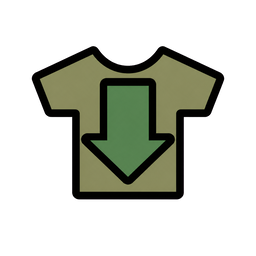
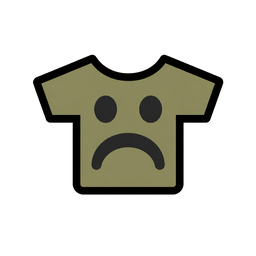
Revised placeholder art by codex

Changed region(s): [[0.125, 0.1562, 0.875, 0.7812]]

diff --git a/Art/Codex/Gene icon concepts.md b/Art/Codex/Gene icon concepts.md
@@ -30,7 +30,7 @@ Match the composition of `Gene_StrongArtistic`, replacing the paintbrush with a 
 
 ### Super-specialist (`XylSuperSpecialist`)
 
-Reuse the specialist die, but place it over a larger double-stepped green up arrow. The stronger arrow distinguishes the higher aptitude tier without adding a separate passion symbol.
+Reuse the specialist die and standard green up-arrow shape, but make the arrow substantially taller. RimWorld uses increased arrow height, rather than extra steps, to distinguish a larger effect. Keep the die the same size and position so the two genes remain a clear family.
 
 ### Scaleborn lineage (`XylScalebornLineage`)
 
@@ -40,7 +40,7 @@ A single neutral olive dragon egg with a few broad scales and one prominent crac
 
 ### Lithoid (`XylLithoid`)
 
-A faceted slate-gray heart with a violet crystal at its center. It should look like a living organ made from stone, emphasizing mineral biochemistry without trying to summarize its mixed drug interactions.
+A simple drug flask in the established gene-icon vocabulary, containing one large gray-purple crystal in place of ordinary liquid. Keep the crystal broad and geometric rather than adding smaller facets or loose pieces. The combined flask-and-mineral silhouette communicates lithoid-specific biochemistry without an anatomical organ or arrow.
 
 ### Torpor (`XylTorpor`)
 
@@ -104,22 +104,22 @@ Reuse the same teal DNA helix with a broad red down arrow behind it. Keep the sc
 
 ### Parthenogenic (`XylParthenogenic`)
 
-A large pink female symbol with one small white egg held inside its circular center.
+A single muted cyan-blue ovum visibly pinching into two matching lobes, like the first stage of cell division. The self-dividing egg communicates reproduction beginning without fertilization more directly than a female symbol paired with an egg.
 
 ### Love euphoria (`XylLoveEuphoria`)
 
-A heart-shaped potion bottle half-filled with violet liquid, with one bubble rising inside the neck. The heart and drug vessel are one combined silhouette.
+Two overlapping hearts: a larger pink heart and a smaller lavender heart. Their shared outline should make the pair read as one compact symbol for a love-induced effect passing between partners, without bottles, bubbles, arrows, or addiction imagery.
 
 ### Youthful (`XylYouthful`)
 
-A smooth white young face in front of an offset gray copy of the same face bearing two simple wrinkles. Show the old face only as a narrow shadow around one edge, communicating that age remains present while the visible appearance stays young.
+Use a normal rounded pawn head, not the gaunt-head silhouette. Place three small gray wrinkle lines at one temple and cover only those wrinkles with a compact red X, following the same visual vocabulary as `Gene_GreylessHair`. The face itself remains unobscured, communicating the absence of visible aging rather than immortality.
 
 ## Diet and mood genes
 
 ### Voracious (`XylVoracious`)
 
-A large open mouth with a red up arrow behind it, representing a harmful increase in appetite. A simple pointed tooth can hint at cannibalism without adding a separate food object.
+Retain the open-mouth and red up-arrow concept, but base the mouth directly on the flat silhouette and restrained detail of `Gene_Bloodfeeder`. Use a simple muted-red mouth, broad 75%-gray teeth, and the standard red up arrow; no circular maw, heavy interior modeling, or extra food object.
 
 ### Shameless (`XylShameless`)
 
-Reuse the olive shirt silhouette from `Gene_NakedSpeed`, but replace its superimposed gray weight with a broad green down arrow. The familiar clothing motif plus beneficial reduction communicates reduced shame around being unclothed without depicting a nude body.
+An olive shirt bearing a large, simple unhappy face: two dark eyes and a downturned mouth. The shirt itself making the wearer unhappy focuses on the gene's mood effect and avoids relying on the ambiguous layered symbolism of `Gene_NakedSpeed`.
